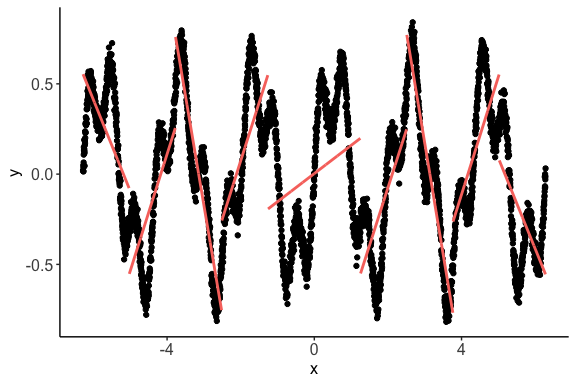
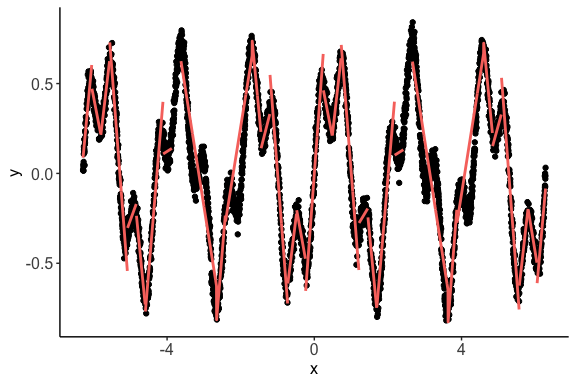
correlation line thickness and opacity added. Example 3 corrected.

diff --git a/README.md b/README.md
@@ -143,14 +143,17 @@ Meaning, the resultant correlation estimate may be statistically
 insignificant (similar to overfitting). Therefore, it is recommended to
 avoid over refinement.
 
-In this data, we rerun the correlation estimation with `refine = 0.9`.
+In this data, we rerun the correlation estimation with `refine = 0.999`.
 
-    c <- nlcor(x3, y3, refine = 0.9, plt = T)
+    c <- nlcor(x3, y3, refine = 0.999, plt = T)
+    #> Warning in FindSegmentSize(l = length(x), refine = refine): Refinement too
+    #> high or data is small. Adjusting computation.
     c$cor.estimate
-    #> [1] 0.7090148
+    #> [1] 0.8042864
     c$adjusted.p.value
-    #> [1] 0
+    #> [1] 4.59308e-05
     print(c$cor.plot)
+    #> Warning: Removed 308 rows containing missing values (geom_path).
 
 <img src="README_files/figure-markdown_strict/Figure-3.3-1.png" style="display: block; margin: auto;" />
 

diff --git a/vignettes/README.md b/vignettes/README.md
@@ -143,14 +143,17 @@ Meaning, the resultant correlation estimate may be statistically
 insignificant (similar to overfitting). Therefore, it is recommended to
 avoid over refinement.
 
-In this data, we rerun the correlation estimation with `refine = 0.9`.
+In this data, we rerun the correlation estimation with `refine = 0.999`.
 
-    c <- nlcor(x3, y3, refine = 0.9, plt = T)
+    c <- nlcor(x3, y3, refine = 0.999, plt = T)
+    #> Warning in FindSegmentSize(l = length(x), refine = refine): Refinement too
+    #> high or data is small. Adjusting computation.
     c$cor.estimate
-    #> [1] 0.7090148
+    #> [1] 0.8042864
     c$adjusted.p.value
-    #> [1] 0
+    #> [1] 4.59308e-05
     print(c$cor.plot)
+    #> Warning: Removed 308 rows containing missing values (geom_path).
 
 <img src="README_files/figure-markdown_strict/Figure-3.3-1.png" style="display: block; margin: auto;" />
 
